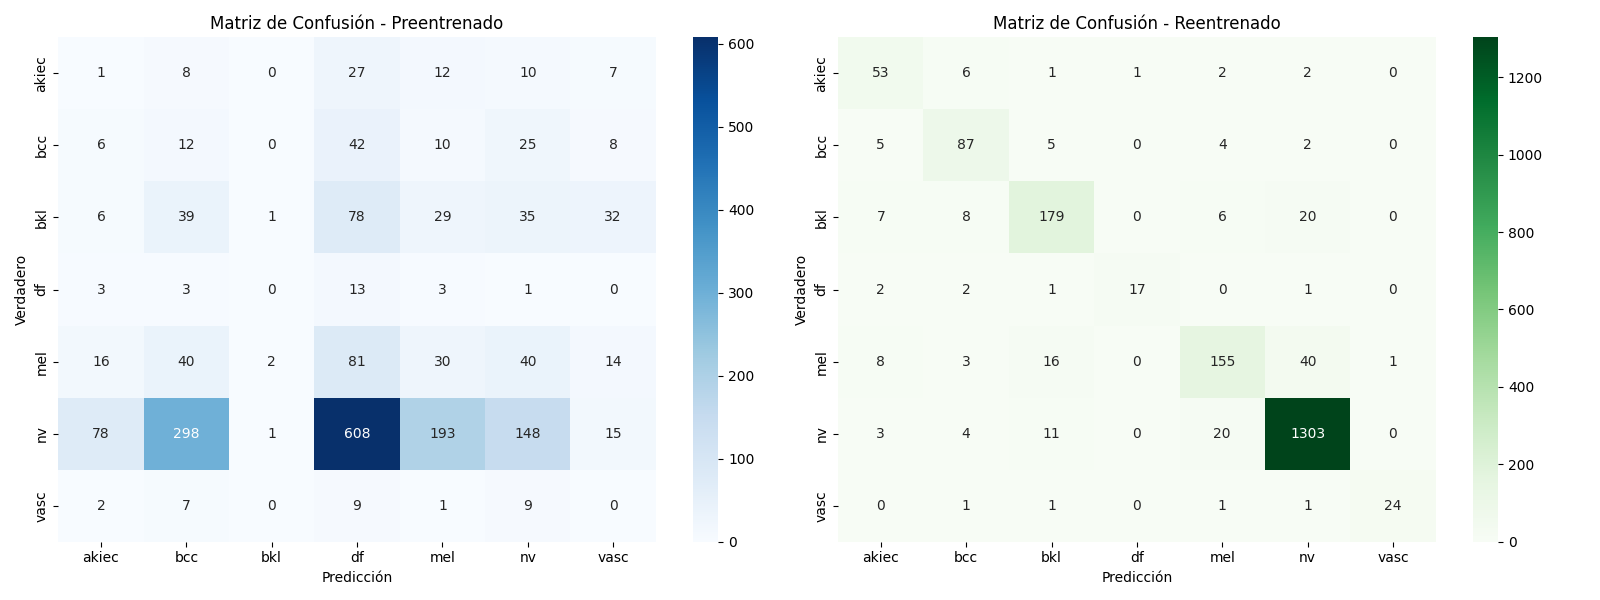
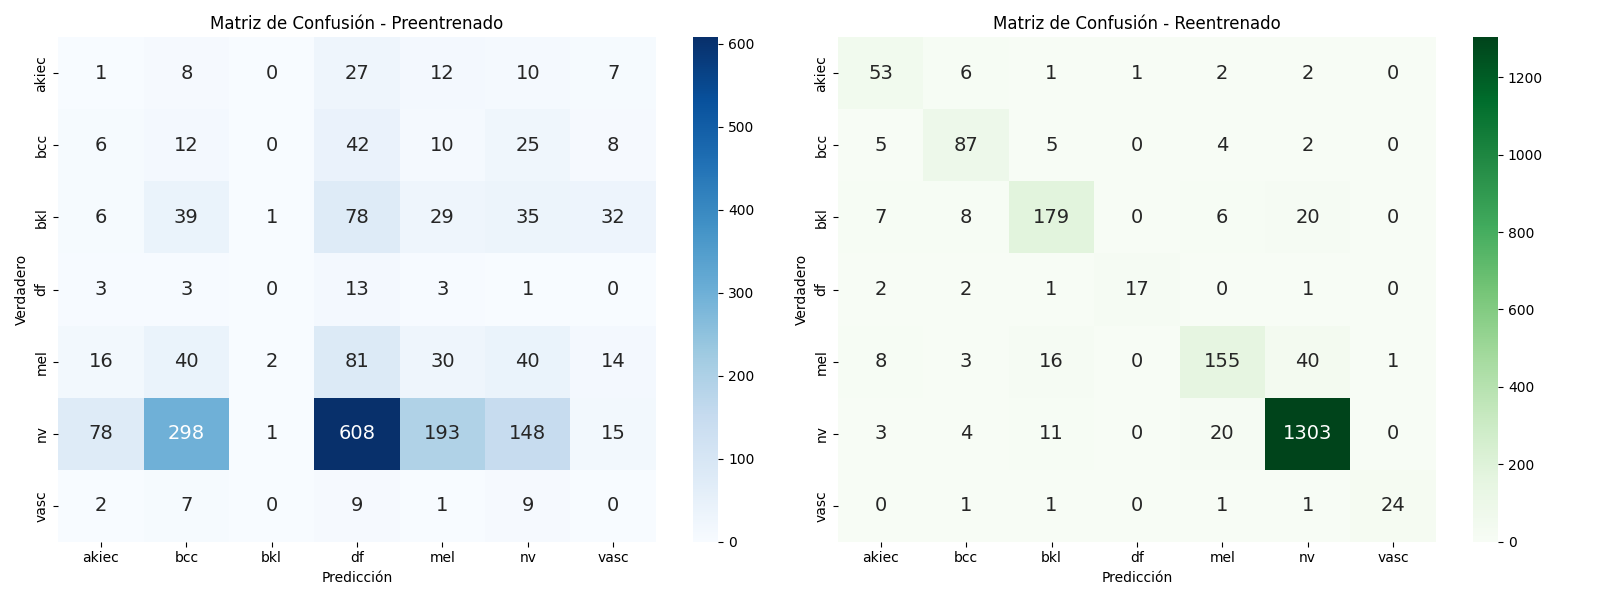
plots para los resultados finales

diff --git a/evaluate/final_results.py b/evaluate/final_results.py
@@ -1,0 +1,65 @@
+import json
+import matplotlib.pyplot as plt
+from settings.parameters import PROJECT_ROOT  # Importar PROJECT_ROOT
+
+# Cargar datos del entrenamiento
+#armar con PROJECT_ROOT
+
+with open(f'{PROJECT_ROOT}/scripts/runs/ham10000_experiment/20epochs-100000-hyper/metrics-5.json', 'r') as f:
+    metrics = json.load(f)
+
+epochs = metrics["epochs"]
+train_loss = metrics["train_loss"]
+val_loss = metrics["val_loss"]
+train_acc = metrics["train_acc"]
+val_acc = metrics["val_acc"]
+
+# Gráfico de pérdida
+plt.figure(figsize=(10, 6))
+plt.plot(epochs, train_loss, label="Pérdida de Entrenamiento", marker='o')
+plt.plot(epochs, val_loss, label="Pérdida de Validación", marker='o')
+plt.xlabel("Épocas")
+plt.ylabel("Pérdida")
+plt.title("Evolución de la Pérdida por Épocas")
+plt.legend()
+plt.grid(True)
+plt.tight_layout()
+plt.savefig("loss_progress.png")
+print("Gráfico de pérdida guardado como 'loss_progress.png'.")
+plt.show()
+
+# Gráfico de precisión
+plt.figure(figsize=(10, 6))
+plt.plot(epochs, train_acc, label="Precisión de Entrenamiento", marker='o')
+plt.plot(epochs, val_acc, label="Precisión de Validación", marker='o')
+plt.xlabel("Épocas")
+plt.ylabel("Precisión")
+plt.title("Evolución de la Precisión por Épocas")
+plt.legend()
+plt.grid(True)
+plt.tight_layout()
+plt.savefig("accuracy_progress.png")
+print("Gráfico de precisión guardado como 'accuracy_progress.png'.")
+plt.show()
+
+
+# Cargar datos del reporte de clasificación
+with open(f'{PROJECT_ROOT}/scripts/runs/ham10000_experiment/20epochs-100000-hyper/classification_report_test-5.json', 'r') as f:
+    classification_report = json.load(f)
+
+labels = list(classification_report.keys())[:-3]  # Excluir métricas globales
+f1_scores = [classification_report[label]["f1-score"] for label in labels]
+
+# Gráfico de F1-score por clase
+plt.figure(figsize=(10, 6))
+plt.bar(labels, f1_scores, color='orange')
+plt.xlabel("Clases")
+plt.ylabel("F1-Score")
+plt.title("F1-Score por Clase en el Conjunto de Prueba")
+plt.ylim(0, 1)
+for i, score in enumerate(f1_scores):
+    plt.text(i, score + 0.02, f'{score:.2f}', ha='center', fontsize=10)
+plt.tight_layout()
+plt.savefig("f1_score_test.png")
+print("Gráfico de F1-score guardado como 'f1_score_test.png'.")
+plt.show()

diff --git a/evaluate/comparison.py b/evaluate/comparison.py
@@ -78,8 +78,8 @@ def plot_confusion_matrix(pretrained_results, trained_results, labels):
     trained_cm = np.array(trained_results["confusion_matrix"])
 
     fig, axes = plt.subplots(1, 2, figsize=(16, 6))
-
-    sns.heatmap(pretrained_cm, annot=True, fmt='d', cmap='Blues', ax=axes[0])
+    size_annotation = 14
+    sns.heatmap(pretrained_cm, annot=True, fmt='d', cmap='Blues', ax=axes[0], annot_kws={"size": size_annotation})
     axes[0].set_title("Matriz de Confusión - Preentrenado")
     axes[0].set_xlabel("Predicción")
     axes[0].set_ylabel("Verdadero")
@@ -88,7 +88,7 @@ def plot_confusion_matrix(pretrained_results, trained_results, labels):
     axes[0].set_xticklabels(labels)
     axes[0].set_yticklabels(labels)
 
-    sns.heatmap(trained_cm, annot=True, fmt='d', cmap='Greens', ax=axes[1])
+    sns.heatmap(trained_cm, annot=True, fmt='d', cmap='Greens', ax=axes[1], annot_kws={"size": size_annotation})
     axes[1].set_title("Matriz de Confusión - Reentrenado")
     axes[1].set_xlabel("Predicción")
     axes[1].set_ylabel("Verdadero")
